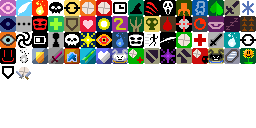
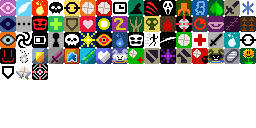
1.2.5: implemented sniper's patience talent, with huge nerfs to its original planned damage

Changed region(s): [[0.125, 0.5, 0.1875, 0.625]]

diff --git a/core/src/main/java/com/shatteredpixel/shatteredpixeldungeon/actors/hero/Talent.java b/core/src/main/java/com/shatteredpixel/shatteredpixeldungeon/actors/hero/Talent.java
@@ -34,6 +34,7 @@ import com.shatteredpixel.shatteredpixeldungeon.actors.buffs.*;
 import com.shatteredpixel.shatteredpixeldungeon.actors.buffs.powers.Wet;
 import com.shatteredpixel.shatteredpixeldungeon.actors.mobs.Mob;
 import com.shatteredpixel.shatteredpixeldungeon.actors.mobs.minions.Minion;
+import com.shatteredpixel.shatteredpixeldungeon.effects.CellEmitter;
 import com.shatteredpixel.shatteredpixeldungeon.effects.Speck;
 import com.shatteredpixel.shatteredpixeldungeon.effects.SpellSprite;
 import com.shatteredpixel.shatteredpixeldungeon.items.Item;
@@ -44,6 +45,8 @@ import com.shatteredpixel.shatteredpixeldungeon.items.artifacts.cloakglyphs.Cloa
 import com.shatteredpixel.shatteredpixeldungeon.items.artifacts.cloakglyphs.Victide;
 import com.shatteredpixel.shatteredpixeldungeon.items.quest.Scrap;
 import com.shatteredpixel.shatteredpixeldungeon.items.scrolls.ScrollOfRecharging;
+import com.shatteredpixel.shatteredpixeldungeon.items.stones.StoneOfAggression;
+import com.shatteredpixel.shatteredpixeldungeon.items.wands.WandOfBlastWave;
 import com.shatteredpixel.shatteredpixeldungeon.items.weapon.melee.staffs.MinionBalanceTable;
 import com.shatteredpixel.shatteredpixeldungeon.items.weapon.melee.staffs.Staff;
 import com.shatteredpixel.shatteredpixeldungeon.items.weapon.missiles.MissileWeapon;
@@ -51,6 +54,7 @@ import com.shatteredpixel.shatteredpixeldungeon.messages.Messages;
 import com.shatteredpixel.shatteredpixeldungeon.sprites.CharSprite;
 import com.shatteredpixel.shatteredpixeldungeon.sprites.DogSprite;
 import com.shatteredpixel.shatteredpixeldungeon.ui.BuffIndicator;
+import com.shatteredpixel.shatteredpixeldungeon.utils.BArray;
 import com.watabou.noosa.Image;
 import com.watabou.noosa.audio.Sample;
 import com.watabou.utils.Bundle;
@@ -85,7 +89,7 @@ public enum Talent {
     TOXIC_RELATIONSHIP(95),
     DOG_BREEDING(82, 3, true),
     NUCLEAR_RAGE(83, 3, true),
-    SNIPER_PATIENCE(84, 3),
+    SNIPER_PATIENCE(84, 3, true),
     ARCANE_CLOAK(85, 3, true),
     ARMORED_ARMADA(86, 3),
     TIMEBENDING(87, 3),
@@ -303,6 +307,66 @@ public enum Talent {
         public void restoreFromBundle(Bundle bundle) {
             super.restoreFromBundle(bundle);
             sunCount = bundle.getInt(SUN);
+        }
+    }
+
+    public static class SniperPatienceCooldown extends Cooldown {
+        public float duration() { return Dungeon.hero.pointsInTalent(SNIPER_PATIENCE) > 2 ? 25 : 20; }
+        public int icon() { return BuffIndicator.TIME; }
+        public void tintIcon(Image icon) { icon.hardlight(0xa12d2d); }
+    }
+
+    public static class SniperPatienceTracker extends Buff {
+        {
+            actPriority = HERO_PRIO+1;
+        }
+
+        private int pos;
+
+        @Override
+        public boolean attachTo( Char target ) {
+            pos = target.pos;
+            return super.attachTo( target );
+        }
+
+        @Override
+        public boolean act() {
+            if (target.pos != pos) {
+                detach();
+            }
+            spend( TICK );
+            return true;
+        }
+
+        public static float damageModifier(){
+            switch (Dungeon.hero.pointsInTalent(SNIPER_PATIENCE)){
+                case 1: return 1.5f;
+                case 2: return 1.75f;
+                case 3: return 2.0f;
+            }
+            return 1f;
+        }
+
+        public String toString() { return Messages.get(this, "name"); }
+        public String desc() {
+            return String.format("%s\n\n%s\n\n%s",
+                    Messages.get(this, "desc"),
+                    Messages.get(this, "add_desc" + Dungeon.hero.pointsInTalent(SNIPER_PATIENCE)),
+                    Messages.get(this, "desc_detach"));
+        }
+        public int icon() { return BuffIndicator.SNIPER_PAT; }
+
+        private static final String POS		= "pos";
+
+        @Override
+        public void storeInBundle( Bundle bundle ) {
+            super.storeInBundle( bundle );
+            bundle.put( POS, pos );
+        }
+        @Override
+        public void restoreFromBundle( Bundle bundle ) {
+            super.restoreFromBundle( bundle );
+            pos = bundle.getInt( POS );
         }
     }
 
@@ -576,6 +640,29 @@ public enum Talent {
         if (hero.hasTalent(SCRAP_BRAIN) && Dungeon.hero.belongings.weapon instanceof MissileWeapon &&
             enemy.HP - damage <= 0 && Random.Int(3) == 0){
             Dungeon.level.drop(new Scrap(), enemy.pos).sprite.drop();
+        }
+        if (hero.buff(Talent.SniperPatienceTracker.class) != null && hero.belongings.weapon instanceof MissileWeapon){
+            switch (Dungeon.hero.pointsInTalent(Talent.SNIPER_PATIENCE)){
+                case 2:
+                    Buff.affect(enemy, Slow.class, 4f); break;
+                case 3:
+                    Buff.affect(enemy, Slow.class, 6f);
+                    Buff.affect(enemy, StoneOfAggression.Aggression.class, 10f);
+                    PathFinder.buildDistanceMap( enemy.pos, BArray.not( Dungeon.level.solid, null ), 2 );
+                    for (int i = 0; i < PathFinder.distance.length; i++) {
+                        if (PathFinder.distance[i] < Integer.MAX_VALUE) {
+                            Char ch = Actor.findChar(i);
+                            if (ch != null && ch.alignment == Char.Alignment.ENEMY){
+                                ch.damage(1 + Dungeon.chapterNumber(), new WandOfBlastWave());
+                            }
+                            CellEmitter.get(i).burst(Speck.factory(Speck.SMOKE_DUST, true), Random.Int(4, 8));
+                        }
+                    }
+                    Sample.INSTANCE.play(Assets.Sounds.BLAST);
+                    break;
+            }
+            Buff.detach(Dungeon.hero, Talent.SniperPatienceTracker.class);
+            Talent.Cooldown.affectHero(Talent.SniperPatienceCooldown.class);
         }
         return damage;
     }

diff --git a/core/src/main/java/com/shatteredpixel/shatteredpixeldungeon/actors/hero/Hero.java b/core/src/main/java/com/shatteredpixel/shatteredpixeldungeon/actors/hero/Hero.java
@@ -100,6 +100,7 @@ import com.watabou.noosa.Camera;
 import com.watabou.noosa.Game;
 import com.watabou.noosa.Visual;
 import com.watabou.noosa.audio.Sample;
+import com.watabou.noosa.particles.Emitter;
 import com.watabou.utils.Bundle;
 import com.watabou.utils.Callback;
 import com.watabou.utils.PathFinder;
@@ -483,6 +484,15 @@ public class Hero extends Char {
 
 		if (belongings.weapon instanceof MissileWeapon &&
 				target.buff(QuiverMark.class) != null) return INFINITE_ACCURACY;
+
+		if (belongings.weapon instanceof MissileWeapon &&
+				buff(Talent.SniperPatienceTracker.class) != null &&
+				pointsInTalent(Talent.SNIPER_PATIENCE) == 3){
+			Emitter e = target.sprite.centerEmitter();
+			e.pos(e.x-2, e.y-6, 4, 4);
+			e.start(Speck.factory(Speck.MASTERY), 0.025f, 12);
+			return INFINITE_ACCURACY;
+		}
 		
 		if (wep instanceof MissileWeapon || (wep instanceof Knife && ((Knife) wep).ranged)){
 			SilkyQuiver.quiverBuff buff = buff(SilkyQuiver.quiverBuff.class);
@@ -1259,6 +1269,9 @@ public class Hero extends Char {
 		if (!fullRest) {
 			if (hasTalent(Talent.TOWER_OF_POWER) && buff(Talent.TowerOfPowerCooldown.class) == null)
 				Buff.affect(this, Talent.TowerOfPowerTracker.class);
+			if (hasTalent(Talent.SNIPER_PATIENCE) && buff(Talent.SniperPatienceCooldown.class) == null
+					&& buff(Talent.SniperPatienceTracker.class) == null)
+				Buff.affect(this, Talent.SniperPatienceTracker.class);
 			if (sprite != null)
 				sprite.showStatus( CharSprite.DEFAULT, Messages.get(this, "wait") );
 		}

diff --git a/core/src/main/java/com/shatteredpixel/shatteredpixeldungeon/actors/mobs/Mob.java b/core/src/main/java/com/shatteredpixel/shatteredpixeldungeon/actors/mobs/Mob.java
@@ -1134,7 +1134,11 @@ public abstract class Mob extends Char {
 					}
 				}
 
-				if (Random.Float( distance( enemy ) + enemyStealth ) < 1) {
+				float chance = distance(enemy) + enemyStealth;
+				if (enemy instanceof Hero && ((Hero) enemy).pointsInTalent(Talent.SNIPER_PATIENCE) > 1 &&
+					enemy.buff(Talent.SniperPatienceTracker.class) != null)
+					chance *= 1.5f;
+				if (Random.Float(chance) < 1) {
 					enemySeen = true;
 
 					notice();
@@ -1164,7 +1168,11 @@ public abstract class Mob extends Char {
 
 		@Override
 		public boolean act( boolean enemyInFOV, boolean justAlerted ) {
-			if (enemyInFOV && (justAlerted || Random.Float( distance( enemy ) / 2f + enemy.stealth() ) < 1) && buff(PerfumeGas.Affection.class) == null) {
+			float chance = enemy == null ? 0 : (distance(enemy) / 2f + enemy.stealth());
+			if (enemy instanceof Hero && ((Hero) enemy).pointsInTalent(Talent.SNIPER_PATIENCE) > 1 &&
+					enemy.buff(Talent.SniperPatienceTracker.class) != null)
+				chance *= 1.5f;
+			if (enemyInFOV && (justAlerted || Random.Float(chance) < 1) && buff(PerfumeGas.Affection.class) == null) {
 
 				return noticeEnemy();
 

diff --git a/core/src/main/java/com/shatteredpixel/shatteredpixeldungeon/effects/Speck.java b/core/src/main/java/com/shatteredpixel/shatteredpixeldungeon/effects/Speck.java
@@ -77,6 +77,7 @@ public class Speck extends Image {
     public static final int HASTE = 123;
     public static final int STENCH_WAND = 124;
 	public static final int FROSTBURN = 125;
+	public static final int SMOKE_DUST = 126;
     public static final int SWORD = 15;
 	public static final int SNOWFLAKE = 16;
 	
@@ -128,6 +129,7 @@ public class Speck extends Image {
 		case CONFUSION:
 		case STORM:
 		case DUST:
+		case SMOKE_DUST:
 		case SMOKE:
 		case BLIZZARD:
 		case INFERNO:
@@ -417,6 +419,13 @@ public class Speck extends Image {
 			lifespan = 0.5f;
 			break;
 
+		case SMOKE_DUST:
+			hardlight( 0x666666 );
+			angle = Random.Float( 360 );
+			speed.polar( Random.Float( 2 * 3.1415926f ), Random.Float( 16, 48 ) );
+			lifespan = 1f;
+			break;
+
 		case COIN:
 			speed.polar( -PointF.PI * Random.Float( 0.3f, 0.7f ), Random.Float( 48, 96 ) );
 			acc.y = 256;
@@ -532,6 +541,7 @@ public class Speck extends Image {
 			case BLIZZARD:
 			case INFERNO:
 			case DUST:
+			case SMOKE_DUST:
             case HEALGAS:
             case HONEY:
             case PERFUME:

diff --git a/core/src/main/java/com/shatteredpixel/shatteredpixeldungeon/sprites/MissileSprite.java b/core/src/main/java/com/shatteredpixel/shatteredpixeldungeon/sprites/MissileSprite.java
@@ -25,6 +25,7 @@
 package com.shatteredpixel.shatteredpixeldungeon.sprites;
 
 import com.shatteredpixel.shatteredpixeldungeon.Dungeon;
+import com.shatteredpixel.shatteredpixeldungeon.actors.hero.Talent;
 import com.shatteredpixel.shatteredpixeldungeon.items.Item;
 import com.shatteredpixel.shatteredpixeldungeon.items.artifacts.ringartifacts.HeavyFlail;
 import com.shatteredpixel.shatteredpixeldungeon.items.artifacts.ringartifacts.SilkyQuiver;
@@ -179,6 +180,9 @@ public class MissileSprite extends ItemSprite implements Tweener.Listener {
 		if (item instanceof Stars.ProjectileStar){
 			speed *= 2f;
 			parent.addToFront(this);
+		}
+		if (item instanceof MissileWeapon && Dungeon.hero.buff(Talent.SniperPatienceTracker.class) != null){
+			speed = 800f;
 		}
 		
 		PosTweener tweener = new PosTweener( this, to, d.length() / speed );

diff --git a/core/src/main/java/com/shatteredpixel/shatteredpixeldungeon/items/weapon/missiles/MissileWeapon.java b/core/src/main/java/com/shatteredpixel/shatteredpixeldungeon/items/weapon/missiles/MissileWeapon.java
@@ -350,6 +350,10 @@ abstract public class MissileWeapon extends Weapon {
 				damage += Random.IntRange( 0, exStr );
 			}
 		}
+
+		if (owner.buff(Talent.SniperPatienceTracker.class) != null){
+			damage *= Talent.SniperPatienceTracker.damageModifier();
+		}
 		
 		return damage;
 	}

diff --git a/core/src/main/java/com/shatteredpixel/shatteredpixeldungeon/ui/BuffIndicator.java b/core/src/main/java/com/shatteredpixel/shatteredpixeldungeon/ui/BuffIndicator.java
@@ -114,6 +114,7 @@ public class BuffIndicator extends Component {
 	public static final int SUNSHINE    = 63;
 	public static final int ARMOR_GEN   = 64;
 	public static final int BREAD_CIRCUS= 65;
+	public static final int SNIPER_PAT  = 66;
 
 	public static final int SIZE	= 7;
 	
